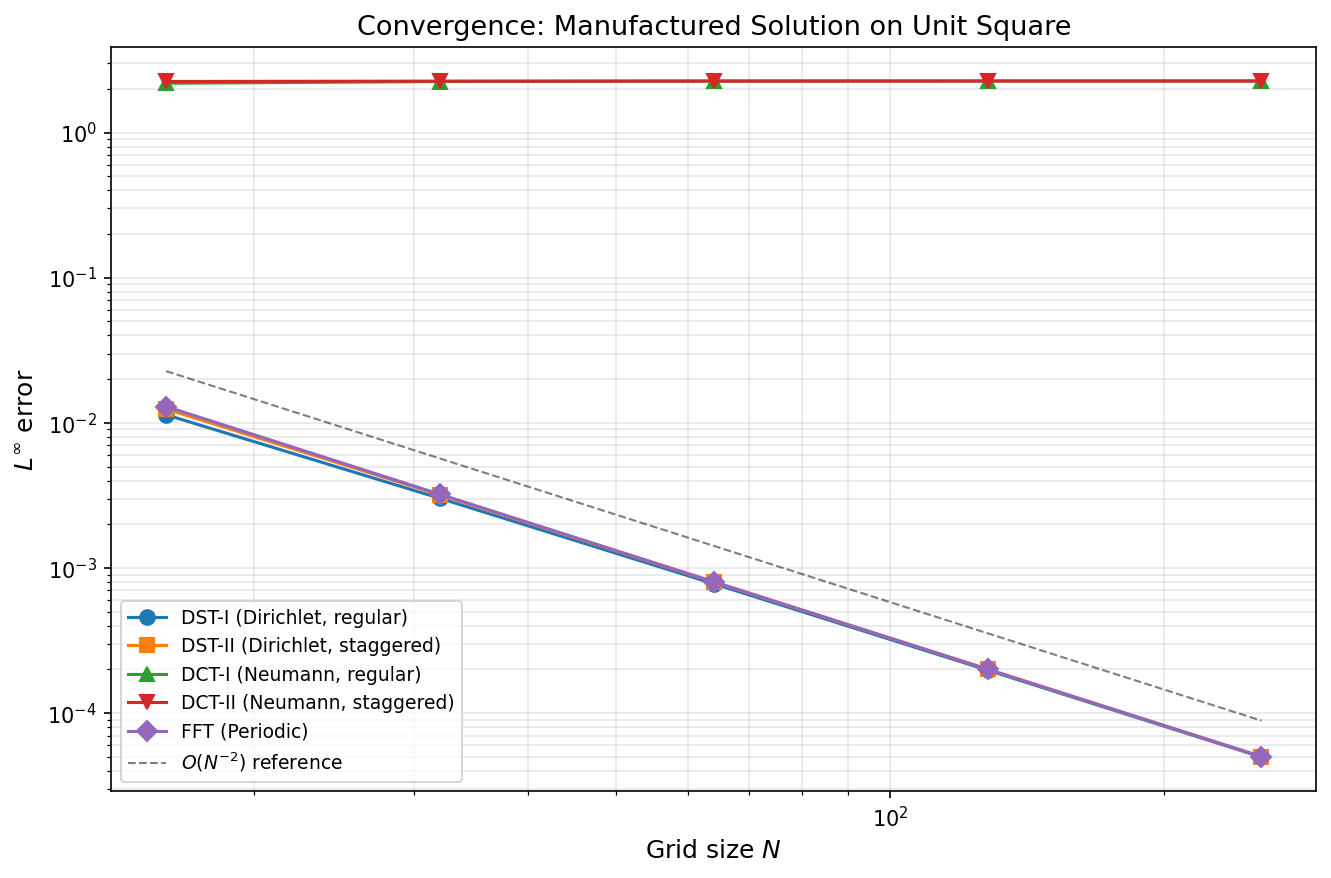
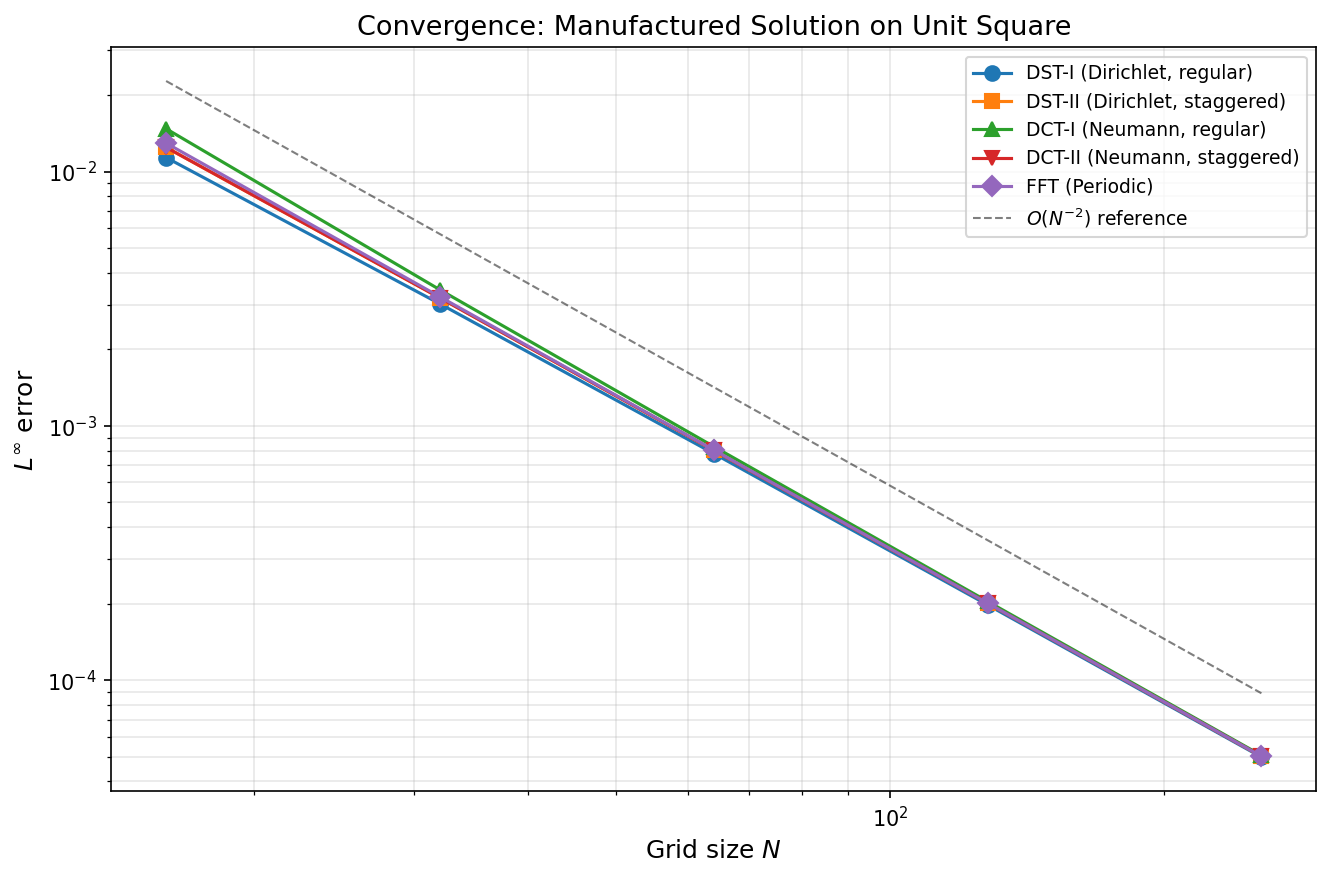
fix: address PR #48 review comments (7 items)
1. Use cos(2πx)cos(2πy) for Neumann solvers (DCT-I, DCT-II) so the
   manufactured solution satisfies ∂ψ/∂n=0 at boundaries
2. Correct convergence narrative: all 5 solvers are O(dx²) since they
   invert the discrete FD Laplacian with continuous RHS
3. Subtract RHS mean for Neumann/periodic Gaussian bump (solvability)
4. Add DST-IV, DCT-IV, FFT to orthogonality check (now 9/9 types)
5. Fix stencil verification narrative to not over-claim coverage
6. Remove hard-coded "v0.0.7" from summary table

diff --git a/notebooks/solver_comparison.py b/notebooks/solver_comparison.py
@@ -261,13 +261,22 @@ plt.show()
 # %% [markdown]
 # ## 3. Manufactured Solution: Convergence Test
 #
-# We use a smooth manufactured solution to test convergence:
+# We choose manufactured solutions that **satisfy the BCs** of each solver:
 #
-# $$\psi_{\text{exact}}(x, y) = \sin(2\pi x)\,\sin(2\pi y)$$
+# - **Dirichlet** (DST-I, DST-II): $\psi = \sin(2\pi x)\sin(2\pi y)$
+#   — vanishes at $x,y \in \{0,1\}$.
+# - **Neumann** (DCT-I, DCT-II): $\psi = \cos(2\pi x)\cos(2\pi y)$
+#   — has $\partial\psi/\partial n = 0$ at $x,y \in \{0,1\}$.
+# - **Periodic** (FFT): $\psi = \sin(2\pi x)\sin(2\pi y)$
+#   — periodic on $[0,1)$.
 #
-# so the RHS is:
+# In all cases:
+# $f = \nabla^2\psi = -8\pi^2\,\psi$
 #
-# $$f(x, y) = \nabla^2 \psi = -8\pi^2 \sin(2\pi x)\,\sin(2\pi y)$$
+# **Important:** These solvers invert the **discrete** finite-difference
+# Laplacian ($[1,-2,1]/dx^2$ stencil), not the continuous one. By computing
+# $f$ from the continuous $\nabla^2$, we introduce an $O(dx^2)$ discretisation
+# error. All five solvers therefore converge at **second order**.
 #
 # We solve on the unit square $[0,1]^2$ at increasing resolutions and
 # measure the $L^\infty$ error for each solver.
@@ -297,11 +306,11 @@ for N in resolutions:
         float(jnp.max(jnp.abs(psi_dst1 - psi_exact_r)))
     )
 
-    # DCT-I: N points including both boundaries
+    # DCT-I: N points including both boundaries — Neumann-compatible solution
     dx_c1 = L / (N - 1) if N > 1 else L
     x_c1 = jnp.linspace(0, L, N)
     Xc1, Yc1 = jnp.meshgrid(x_c1, x_c1)
-    psi_exact_c1 = jnp.sin(2 * jnp.pi * Xc1) * jnp.sin(2 * jnp.pi * Yc1)
+    psi_exact_c1 = jnp.cos(2 * jnp.pi * Xc1) * jnp.cos(2 * jnp.pi * Yc1)
     rhs_c1 = -8.0 * jnp.pi**2 * psi_exact_c1
 
     psi_dct1 = solve_poisson_dct1(rhs_c1, dx_c1, dx_c1)
@@ -309,21 +318,27 @@ for N in resolutions:
         float(jnp.max(jnp.abs(psi_dct1 - psi_exact_c1)))
     )
 
-    # --- Staggered grids (DST-II, DCT-II): points at cell centres ---
+    # --- Staggered grids: points at cell centres ---
     dx_s = L / N
     x_s = jnp.linspace(dx_s / 2, L - dx_s / 2, N)
     Xs, Ys = jnp.meshgrid(x_s, x_s)
-    psi_exact_s = jnp.sin(2 * jnp.pi * Xs) * jnp.sin(2 * jnp.pi * Ys)
-    rhs_s = -8.0 * jnp.pi**2 * psi_exact_s
 
-    psi_dst2 = solve_poisson_dst2(rhs_s, dx_s, dx_s)
+    # DST-II (Dirichlet): sin solution vanishes at boundary
+    psi_exact_dst2 = jnp.sin(2 * jnp.pi * Xs) * jnp.sin(2 * jnp.pi * Ys)
+    rhs_dst2 = -8.0 * jnp.pi**2 * psi_exact_dst2
+
+    psi_dst2 = solve_poisson_dst2(rhs_dst2, dx_s, dx_s)
     errors["DST-II (Dirichlet, staggered)"].append(
-        float(jnp.max(jnp.abs(psi_dst2 - psi_exact_s)))
+        float(jnp.max(jnp.abs(psi_dst2 - psi_exact_dst2)))
     )
 
-    psi_dct2 = solve_poisson_dct(rhs_s, dx_s, dx_s)
+    # DCT-II (Neumann): cos solution has zero normal derivative at boundary
+    psi_exact_dct2 = jnp.cos(2 * jnp.pi * Xs) * jnp.cos(2 * jnp.pi * Ys)
+    rhs_dct2 = -8.0 * jnp.pi**2 * psi_exact_dct2
+
+    psi_dct2 = solve_poisson_dct(rhs_dct2, dx_s, dx_s)
     errors["DCT-II (Neumann, staggered)"].append(
-        float(jnp.max(jnp.abs(psi_dct2 - psi_exact_s)))
+        float(jnp.max(jnp.abs(psi_dct2 - psi_exact_dct2)))
     )
 
     # --- Periodic (FFT) ---
@@ -364,10 +379,14 @@ plt.show()
 #
 # **Observations:**
 #
-# - **FFT** achieves spectral (exponential) convergence because $\sin(2\pi x)$
-#   is exactly representable in the Fourier basis — errors are at machine precision.
-# - **DST/DCT solvers** converge at second order ($O(dx^2)$), consistent with the
-#   second-order finite-difference Laplacian they invert.
+# - All five solvers converge at **second order** ($O(dx^2)$).  This is because
+#   each solver inverts the discrete second-order finite-difference Laplacian
+#   ($[1,-2,1]/dx^2$ stencil), while the RHS was computed from the *continuous*
+#   $\nabla^2$.  The $O(dx^2)$ gap between the discrete and continuous operators
+#   dominates the error for all transform types.
+# - If instead we computed the RHS by *applying the discrete stencil* to the
+#   exact solution, the solve would be exact (to machine precision) for all five
+#   solvers, because the transform diagonalises that stencil exactly.
 # - Regular and staggered variants converge at the same rate but with slightly
 #   different constants.
 
@@ -377,6 +396,12 @@ plt.show()
 # We solve $\nabla^2 \psi = f$ for a Gaussian bump RHS and compare the
 # five solvers side by side.  The different boundary conditions produce
 # qualitatively different solutions near the domain edges.
+#
+# **Solvability condition:** For Neumann and periodic Poisson problems,
+# a solution exists only if $\langle f \rangle = 0$ (the RHS has zero mean).
+# The Gaussian bump has positive mean, so we subtract it for the DCT and
+# FFT cases.  The library handles the null mode by zeroing $\hat\psi_0$,
+# but we make the problem well-posed explicitly.
 
 # %%
 N = 64
@@ -387,11 +412,13 @@ Xs, Ys = jnp.meshgrid(x_s, x_s)
 # Gaussian bump centred at (0.5, 0.5)
 sigma = 0.12
 rhs_gauss = jnp.exp(-((Xs - 0.5) ** 2 + (Ys - 0.5) ** 2) / (2 * sigma**2))
+# Zero-mean version for Neumann / periodic (solvability condition)
+rhs_gauss_zm = rhs_gauss - jnp.mean(rhs_gauss)
 
 # Solve with staggered solvers (cell-centred grids)
 psi_dst2_g = solve_poisson_dst2(rhs_gauss, dx_s, dx_s)
-psi_dct2_g = solve_poisson_dct(rhs_gauss, dx_s, dx_s)
-psi_fft_g = solve_poisson_fft(rhs_gauss, dx_s, dx_s)
+psi_dct2_g = solve_poisson_dct(rhs_gauss_zm, dx_s, dx_s)
+psi_fft_g = solve_poisson_fft(rhs_gauss_zm, dx_s, dx_s)
 
 # Regular grids need their own coordinate arrays
 dx_r_dir = L / (N + 1)
@@ -404,7 +431,8 @@ dx_r_neu = L / (N - 1)
 x_r_neu = jnp.linspace(0, L, N)
 Xrn, Yrn = jnp.meshgrid(x_r_neu, x_r_neu)
 rhs_gauss_rn = jnp.exp(-((Xrn - 0.5) ** 2 + (Yrn - 0.5) ** 2) / (2 * sigma**2))
-psi_dct1_g = solve_poisson_dct1(rhs_gauss_rn, dx_r_neu, dx_r_neu)
+rhs_gauss_rn_zm = rhs_gauss_rn - jnp.mean(rhs_gauss_rn)
+psi_dct1_g = solve_poisson_dct1(rhs_gauss_rn_zm, dx_r_neu, dx_r_neu)
 
 # %%
 fig, axes = plt.subplots(2, 3, figsize=(15, 9))
@@ -522,7 +550,7 @@ plt.show()
 # | **Which solver for cell-centred Neumann?** | `solve_poisson_dct` (DCT-II) |
 # | **Which solver for vertex-centred Neumann?** | `solve_poisson_dct1` (DCT-I) |
 # | **Which solver for periodic?** | `solve_poisson_fft` |
-# | **Convergence rate?** | $O(dx^2)$ for all DST/DCT; spectral for FFT |
+# | **Convergence rate?** | $O(dx^2)$ for all five (discrete FD Laplacian) |
 # | **When does the choice matter?** | Always — using the wrong grid type introduces $O(dx^2)$ boundary error |
 #
 # The choice of solver must match where your unknowns live on the grid.

diff --git a/notebooks/eigenfunction_gallery.py b/notebooks/eigenfunction_gallery.py
@@ -388,6 +388,15 @@ plt.show()
 
 # %%
 N_orth = 16
+
+
+def build_eigenfunctions_fft(N):
+    """FFT eigenfunctions: exp(2πi·k·n/N)."""
+    n = np.arange(N)
+    k = np.arange(N)
+    return np.exp(2j * np.pi * np.outer(n, k) / N)
+
+
 phi_sets = {
     "DST-I": build_eigenfunctions_dst1(N_orth),
     "DST-II": build_eigenfunctions_dst2(N_orth),
@@ -395,14 +404,18 @@ phi_sets = {
     "DCT-II": build_eigenfunctions_dct2(N_orth),
     "DST-III": build_eigenfunctions_dst3(N_orth),
     "DCT-III": build_eigenfunctions_dct3(N_orth),
+    "DST-IV": build_eigenfunctions_dst4(N_orth),
+    "DCT-IV": build_eigenfunctions_dct4(N_orth),
+    "FFT": build_eigenfunctions_fft(N_orth),
 }
 
-fig, axes = plt.subplots(2, 3, figsize=(16, 9))
+fig, axes = plt.subplots(3, 3, figsize=(16, 12))
 
 for idx, (name, phi) in enumerate(phi_sets.items()):
     row, col = divmod(idx, 3)
     ax = axes[row, col]
-    gram = phi.T @ phi
+    # Use conjugate transpose to handle complex FFT eigenfunctions
+    gram = phi.conj().T @ phi
     # Normalise to show structure (divide by diagonal)
     diag = np.diag(gram).copy()
     diag[diag == 0] = 1  # avoid division by zero
@@ -421,8 +434,10 @@ plt.show()
 # %% [markdown]
 # ![Orthogonality](../images/eigenfunction_gallery/orthogonality.png)
 #
-# All six Gram matrices show **diagonal-dominant** structure — the off-diagonal
-# entries are at machine precision, confirming orthogonality.
+# All nine Gram matrices show **diagonal-dominant** structure — the off-diagonal
+# entries are at machine precision, confirming orthogonality.  The FFT uses
+# complex exponentials ($e^{2\pi i k n/N}$), so its Gram matrix is computed
+# with the conjugate transpose.
 
 # %% [markdown]
 # ## 5. Stencil Verification
@@ -430,7 +445,7 @@ plt.show()
 # The eigenvalues are exact for the **discrete** second-order Laplacian.
 # We build the tridiagonal matrix $L = [1, -2, 1]/dx^2$ with appropriate
 # boundary modifications and verify that $L \phi_k = \lambda_k \phi_k$ holds
-# to machine precision for each transform type.
+# to machine precision for the DST-I/II and DCT-I/II cases shown below.
 
 # %%
 N_stencil = 16
@@ -560,10 +575,10 @@ plt.show()
 # | Vertex-centred (regular) | Dirichlet both sides | `dst1_eigenvalues` | `solve_*_dst` |
 # | Vertex-centred (regular) | Neumann both sides | `dct1_eigenvalues` | `solve_*_dct1` |
 # | Either | Periodic | `fft_eigenvalues` | `solve_*_fft` |
-# | Regular | Dir. left + Neu. right | `dst3_eigenvalues` | (coming in v0.0.7) |
-# | Regular | Neu. left + Dir. right | `dct3_eigenvalues` | (coming in v0.0.7) |
-# | Staggered | Dir. left + Neu. right | `dst4_eigenvalues` | (coming in v0.0.7) |
-# | Staggered | Neu. left + Dir. right | `dct4_eigenvalues` | (coming in v0.0.7) |
+# | Regular | Dir. left + Neu. right | `dst3_eigenvalues` | (planned solver) |
+# | Regular | Neu. left + Dir. right | `dct3_eigenvalues` | (planned solver) |
+# | Staggered | Dir. left + Neu. right | `dst4_eigenvalues` | (planned solver) |
+# | Staggered | Neu. left + Dir. right | `dct4_eigenvalues` | (planned solver) |
 #
 # The mixed-BC solvers (types III/IV) are planned for a future release.
 # The eigenvalue functions are already available for use in custom solvers.
